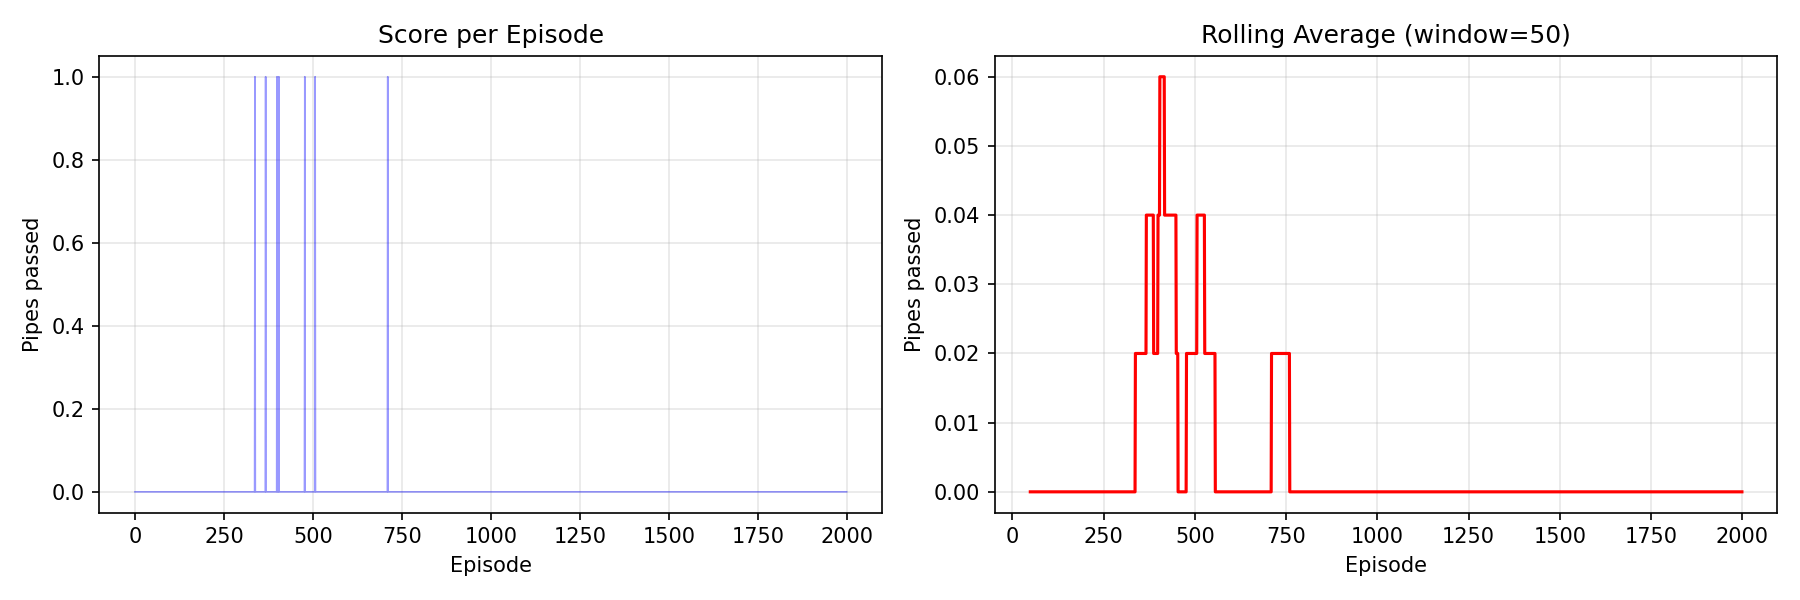
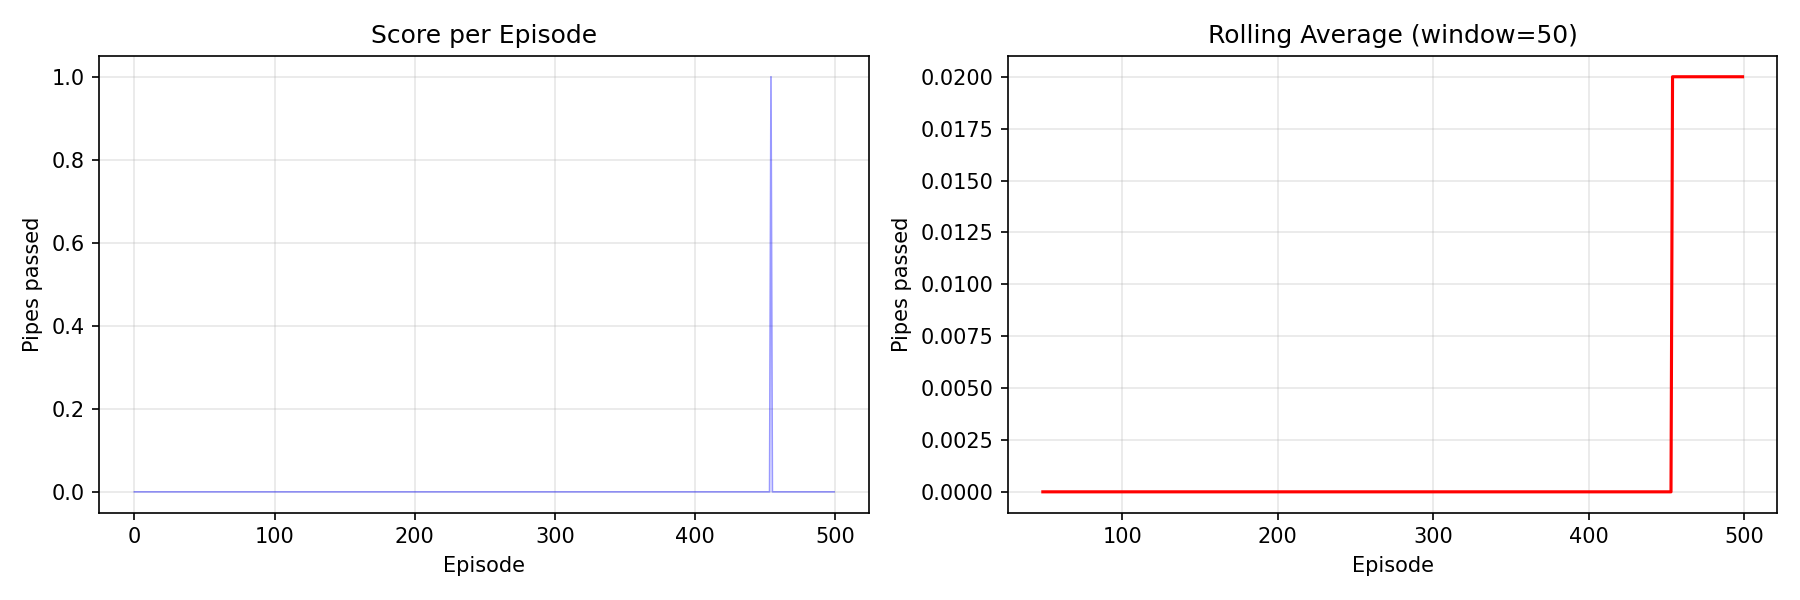
training check

diff --git a/flappy_bird_ai/config.py b/flappy_bird_ai/config.py
@@ -6,7 +6,7 @@ so they can be easily tuned without modifying any other file.
 """
 
 # ─── Training Hyperparameters ───────────────────────────────────────
-NUM_EPISODES    = 2000      # Total number of training episodes
+NUM_EPISODES    = 2000     # Total number of training episodes
 MAX_STEPS       = 10000     # Max frames per episode (safety cap to prevent infinite loops)
 BATCH_SIZE      = 32        # Number of experiences sampled from memory per training step
 LEARNING_RATE   = 0.001     # Adam optimizer learning rate
@@ -16,7 +16,7 @@ TARGET_UPDATE_FREQ = 1000   # How often to sync target network with policy netwo
 # ─── Exploration Hyperparameters ────────────────────────────────────
 EPSILON_START   = 1.0       # Initial exploration rate (100% random actions)
 EPSILON_MIN     = 0.01      # Minimum exploration rate (1% random actions)
-EPSILON_DECAY   = 0.995     # Multiplicative decay applied after each episode
+EPSILON_DECAY   = 0.965    # Multiplicative decay applied after each episode
 
 # ─── Replay Memory ─────────────────────────────────────────────────
 MEMORY_CAPACITY = 10000     # Maximum number of experiences stored in replay buffer
